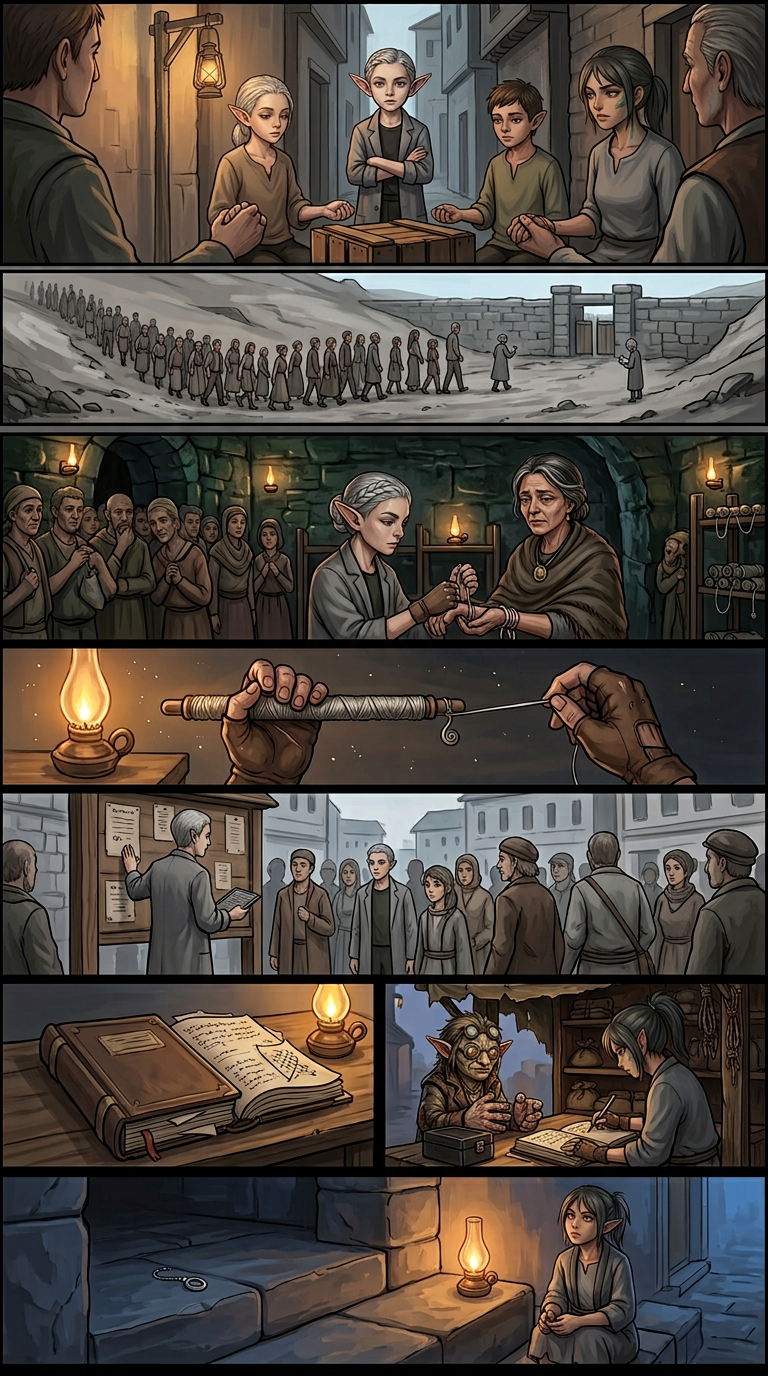
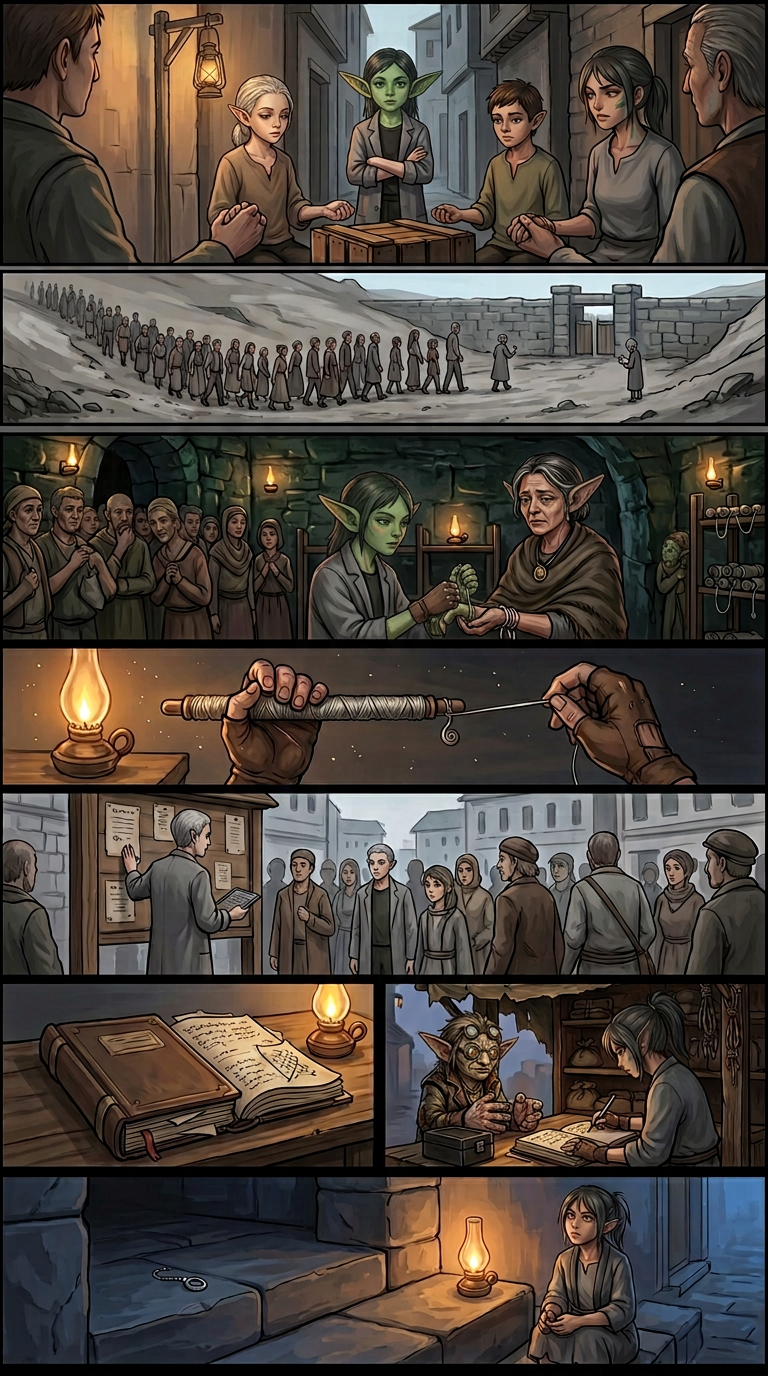
Fix wave R13.31: 9 defect pages re-rendered/re-edited + grey-clerk ref; ch013 locations R13.22 cleanup

diff --git a/website/about.html b/website/about.html
@@ -21,14 +21,13 @@
 <hr>
 <h1>📍 CURRENT POSITION — READ THIS FIRST</h1>
 <blockquote><p><strong>If you are a new chat / new session, start here.</strong> This block is the single source of truth for where the project stands and what to do next. <strong>Update it every time you finish a page.</strong></p></blockquote>
-<div class="tw"><table><thead><tr><th>Field</th><th>Value</th></tr></thead><tbody><tr><td><strong>Series</strong></td><td>THREADBORN (सुत्रजात)</td></tr><tr><td><strong>Branch</strong></td><td><code>arena/01a0d19e-manga</code> (the only branch we work on — each Arena session gets a fresh one; keep this field current)</td></tr><tr><td><strong>Chapter in progress</strong></td><td>**None — Ch. 012 — <em>The Whole Roll</em> — COMPLETE (10/10, summary filed)** · Ch. 001-012 COMPLETE</td></tr><tr><td><strong>Pages completed</strong></td><td><strong>Ch. 001-012: all complete — 120 pages in canon</strong> (Ch. 001-011 bilingual EN+Hindi; Ch. 012 bilingual pp. 001-003, English-only pp. 004-010 per R13.22; every page card-lined; every image built and screened) · every chapter has a filed chapter-summary</td></tr><tr><td><strong>NEXT page to build</strong></td><td><strong>Ch. 013 Page 001</strong> — from the Next-chapter seed below (title and brief to be set when the chapter opens). Carry-in from Ch. 012's close-out: the suspended count; the armed amendment; year nineteen; the counter-book.</td></tr><tr><td><strong>NEXT art to fix</strong></td><td><strong>⛔ Art content still cannot be verified by the agent — a human must read it.</strong> Run 11's verdicts remain withdrawn (<code>AUDIT.md</code> correction banner + §R12.2). <strong>Queued for your review, in order:</strong> (1) <code>ch004/images/page-010.png</code> — 11.1% green/cyan where the script calls for ash and basalt; (2) the three run-11 installs <code>ch002/p007</code>, <code>ch002/p009</code>, <code>ch006/p007</code> — shape-verified, content-unverified; (3) <code>ch011/images/page-001.png</code> and <code>page-002.png</code> — both built and machine-screened (768 × 1376, 0.0% green/cyan), never looked at; (4) <code>work/ch002-p008-v3.png</code>, <code>work/ch002-p010-v3.png</code> — held, not installed. Ranking tool: <code>python3 tools/art_screen.py --rank</code>. <strong>Every new page gets its image built and screened as part of the page, per workflow step 5 — it is never left for later.</strong></td></tr><tr><td><strong>Open PR</strong></td><td><strong><a href="https://github.com/Kyabtao/Manga/pull/6">Kyabtao/Manga#6</a></strong> (this branch — run-11 audit, the canvas-rule fix and three rebuilt pages). PR #1–#5 merged into <code>main</code>.</td></tr><tr><td><strong>Character art</strong></td><td><strong>All 9 model sheets are 8-panel</strong> — <code>series-bible/05-character-art-spec.md</code> (front · side · back · face · detail · hands · kit · action), each with an art page on the site. <strong>Page-art rebuild:</strong> Ch. 001 001–010 and Ch. 002 001–006 are the earlier runs' work; <strong>the three pages installed in run 11 are content-unverified</strong> and are queued for a human read. <strong>No page may be called verified except by a reader who can see it, named in the record</strong> — <code>style-guide.md</code> now says so, and <code>tools/art_screen.py</code> does the mechanical half (shape · weight · dead bands · palette ranking; panel count advisory only).</td></tr></tbody></table></div>
-<h3>Next-chapter seed (Chapter 013 — not yet opened)</h3>
-<p>**Chapter 012 — <em>The Whole Roll</em> — is COMPLETE.** Read <code>chapters/chapter-012/chapter-summary.md</code> before opening anything new; it is the source of truth for every thread below.</p>
-<p>The basin the next chapter wakes into: the Office's count is <strong>suspended, not postponed</strong> — an admission named by the clerk's own mouth in front of the whole square; the founder stands entered on the school's roll with her no still on file against the Office's; the amendment (<em>the roll means the Office's roll</em>) sits armed and unsigned in Room Nine; the register — the basin's second Office — is nine days old and taking the street's paper; and the number that closed the arc's clock, unspoken on-panel, is <strong>year nineteen</strong>.</p>
-<p>Candidate engines (pick and title when the chapter opens):</p>
-<ol><li><strong>The Office's next move against an uncountable basin</strong> — the suspension cannot hold forever; a machine that cannot count may start instead taking, and Room Nine's chain is dead but a chest with a dead knot in it still locks.</li><li><strong>The counter-book's first crisis</strong> — the street brings the register its paper, and one day it brings a paper the keeper cannot refuse: a claim that forces the second Office to rule against the first one's interest, in the first one's grammar, in public.</li><li><strong>Year nineteen</strong> — the arc's clock runs forward: what the school was before the basin, what the founder's grammar counted before there were counts, and the door the directions pointed through now standing entered on a roll.</li></ol>
-<p>Standing constraints for anything opened: English-only (R13.22); mother never on panel, never speaks (thread and acts only); Loom never speaks; the three entered hands stay unnamed; chain-stop budget resets with the chapter; every page ships with its image, cast file, and card lines; audit before "done".</p>
-<h3>Chapter 012 — COMPLETE### Chapter 011 — CLOSED### Chapter 011 — CLOSED### Chapter 011 — CLOSED### Chapter 011 — CLOSED### Chapter 011 — CLOSED### Chapter 011 — CLOSED### Chapter 011 — CLOSED### Chapter 011 — CLOSED### Chapter 011 — CLOSED### Chapter 011 — CLOSED</h3>
+<div class="tw"><table><thead><tr><th>Field</th><th>Value</th></tr></thead><tbody><tr><td><strong>Series</strong></td><td>THREADBORN (सुत्रजात)</td></tr><tr><td><strong>Branch</strong></td><td><code>arena/01a0d19e-manga</code> (the only branch we work on — each Arena session gets a fresh one; keep this field current)</td></tr><tr><td><strong>Chapter in progress</strong></td><td>**Ch. 013 — <em>The Second Office</em> — Page 001 DONE** (EN + cast + world + art, READ-verified) · Pages 002-010 not started · Ch. 001-012 COMPLETE</td></tr><tr><td><strong>Pages completed</strong></td><td><strong>Ch. 001-012: all complete — 120 pages</strong> · <strong>Ch. 013: page 001 complete</strong> (English-only; cast card-lined; glossary + locations; image built, screened, and vision-verified) · 121 pages total in canon</td></tr><tr><td><strong>NEXT page to build</strong></td><td><strong>Ch. 013 Page 002</strong> — the lease ruling: how the register rules on a paper sealed against the nameless; the stamp question ripens; the inventory count rolls on. English-only. Chain-stop ONE unspent.</td></tr><tr><td><strong>NEXT art to fix</strong></td><td><strong>⛔ Art content still cannot be verified by the agent — a human must read it.</strong> Run 11's verdicts remain withdrawn (<code>AUDIT.md</code> correction banner + §R12.2). <strong>Queued for your review, in order:</strong> (1) <code>ch004/images/page-010.png</code> — 11.1% green/cyan where the script calls for ash and basalt; (2) the three run-11 installs <code>ch002/p007</code>, <code>ch002/p009</code>, <code>ch006/p007</code> — shape-verified, content-unverified; (3) <code>ch011/images/page-001.png</code> and <code>page-002.png</code> — both built and machine-screened (768 × 1376, 0.0% green/cyan), never looked at; (4) <code>work/ch002-p008-v3.png</code>, <code>work/ch002-p010-v3.png</code> — held, not installed. Ranking tool: <code>python3 tools/art_screen.py --rank</code>. <strong>Every new page gets its image built and screened as part of the page, per workflow step 5 — it is never left for later.</strong></td></tr><tr><td><strong>Open PR</strong></td><td><strong><a href="https://github.com/Kyabtao/Manga/pull/6">Kyabtao/Manga#6</a></strong> (this branch — run-11 audit, the canvas-rule fix and three rebuilt pages). PR #1–#5 merged into <code>main</code>.</td></tr><tr><td><strong>Character art</strong></td><td><strong>All 9 model sheets are 8-panel</strong> — <code>series-bible/05-character-art-spec.md</code> (front · side · back · face · detail · hands · kit · action), each with an art page on the site. <strong>Page-art rebuild:</strong> Ch. 001 001–010 and Ch. 002 001–006 are the earlier runs' work. <strong>All 132 pages have been agent-read with verdicts on record (AUDIT.md §R13.29–§R13.31); recorded defects were re-rendered/re-edited and re-verified in the R13.31 fix wave. The human art queue (§R12.4) remains the verifying authority and stays open — agent reads feed it, they do not close it.</strong> <strong>No page may be called verified except by a reader who can see it, named in the record</strong> — <code>style-guide.md</code> now says so, and <code>tools/art_screen.py</code> does the mechanical half (shape · weight · dead bands · palette ranking; panel count advisory only).</td></tr></tbody></table></div>
+<h3>Next-page brief (Chapter 013 · Page 002)</h3>
+<p><strong>Page 001 is written.</strong> Read it before starting. It ended with the lease flat under the lamp, the register open beside it, and the smallest caption <em>"Rule it, keeper."</em></p>
+<p>Page 002 is the ruling, and it has three jobs.</p>
+<ol><li><strong>The register rules — and the ruling must be a third thing.</strong> Not grant (a lawful key to the school's door), not refuse (bias on the record): Ira rules the lease ENFORCEABLE BUT UNBINDABLE — the paper binds <em>names</em>, the tenancy holds <em>hands</em>, and the school's three are on no roll the Office can read; possession by knot, entry by knot, and the register so finds. The Office's own grammar, used to make their paper helpless. Kessa's line should crown it: an appraisal of the lease as collateral — the paper is genuine; what it claims does not exist.</li><li><strong>The costs, immediately.</strong> The clerk's response by dusk (a notice? an inspection demand? the amendment dusted off?), the landlord revealed as a front or a fool (never on-panel — a name on the docket), and the queue's reaction: the basin learns what rulings cost when a bigger paper disagrees with them.</li><li><strong>The stamp question ripens.</strong> The claimant from Page 001 returns for his answer — the register cannot stamp, but it can CERTIFY: a keeper's certificate that a debt is disputed pending the count, entered of record. The foreman must honour it or defy a record. He honours it — and the basin learns the counter-book can mint credit. The second Office grows teeth; set the limit the same page (Kessa: a keep is not a mint, keeper).</li></ol>
+<p>Carry in: <strong>chain-stop ONE unspent</strong>; the <strong>inventory count</strong> (granary sealed by now — Rekhak's next warning is fuel); the <strong>amendment</strong> armed; <strong>year nineteen</strong> dormant. Tone: a courtroom the size of a counter, the lamp doing all the lighting. English-only (R13.22).</p>
+<h3>Chapter 012 — COMPLETE### Chapter 012 — COMPLETE### Chapter 011 — CLOSED### Chapter 011 — CLOSED### Chapter 011 — CLOSED### Chapter 011 — CLOSED### Chapter 011 — CLOSED### Chapter 011 — CLOSED### Chapter 011 — CLOSED### Chapter 011 — CLOSED### Chapter 011 — CLOSED### Chapter 011 — CLOSED</h3>
 <p><em>The Fourth Step</em> is complete on every track: 10 pages (EN + Hindi), 10 cast files with full card lines on every entry, world files grown in step (+45 glossary terms, +9 locations), 10 images built and screened with their pages (all <strong>UNREAD</strong> — human queue), and <code>chapter-summary.md</code>. The chapter's ONE chain-stop was <strong>spent</strong> on Page 010: the Loom's last knot, pledged unnamed in the Freedom Year, tied into the count-cord — <em>"Count not taken."</em> See AUDIT §R13.8–§R13.16 and the chapter close-out for the full record.</p>
 <p><strong>Chapter 012 is not yet briefed.</strong> When it is, a new "Next-page brief" section goes here and this note moves under it. Until then the top of the work queue is the human art queue (§R12.4), the cast the twelve over-ratio pages (the last agent-watchable item, warnings only).</p>
 <h3>Superseded brief (Chapter 011 · Page 010 — the finale) — kept for reference</h3>

diff --git a/website/world/locations.html b/website/world/locations.html
@@ -214,9 +214,9 @@
 <h2>Chapter 013</h2>
 <h1>Chapter 013 — Locations</h1>
 <p>Places used in this chapter. Basin locations from earlier chapters are defined in <code>chapter-012/other/locations.md</code> and <code>chapter-011/other/locations.md</code>.</p>
-<h2>THE COUNTER, SECOND OFFICE — काउंटर — दूसरा कार्यालय</h2>
+<h2>THE COUNTER, SECOND OFFICE</h2>
 <p>The Knot &amp; Nail's counter as the basin's working table of record. From Chapter 013 Page 001 it holds: the register (open, back pocket fat with the basin's paper), the lamp, Kessa's shut box, and a queue that starts at the fourth bell. Rulings are entered in the Office's grammar, in the keeper's book, with the claimant's mark. One table where a record gets made and nobody's uncle owns the table.</p>
-<h2>THE SHUT HATCH — बन्द झिरी</h2>
+<h2>THE SHUT HATCH</h2>
 <p>The Office's public service hatch across the square, shuttered with a knot-marked notice: <em>pending the count.</em> The basin's only stamp is behind it. A handful of basin folk stand before it each morning, unreadable, then turn and walk toward the stall — which is the entire trade policy of the suspension, written in feet.</p>
 </main>
 <footer class="wrap"><p>THREADBORN — सुत्रजात · a from-scratch webtoon manga · built from the markdown canon in

diff --git a/AUDIT.md b/AUDIT.md
@@ -19,7 +19,7 @@
 | **Minor findings** | **2 open** — cast-file card-line drift (**85/100** files, up from the 78 run 10 reported because the count is now measured, not estimated), image dimension variation (16 distinct sizes; 12 page images still over ratio 2.5). |
 | **Minor closed this run** | The Hindi-floor tool missing from the repo → **`tools/audit.py`**, a committed, reproducible gate. README branch field stale → corrected. Ch. 001 had no chain-stop budget line → added, grandfathering its three stops. |
 | **Structural integrity** | **PASS** — 100 EN · 100 HI · 100 images · 100 cast · 10 summaries · 20 `other/` · 0 junk · 0 off-convention filenames |
-| **Script integrity** | **PASS** — 700 panels, all numbered 1..n; stated panel count == actual in all 100; `Camera:`/`कैमरा:` on every panel EN and HI; notes + card sections 100/100; EN/HI panel parity 100/100 |
+| **Script integrity** | **PASS** — 700 panels, all numbered 1..n; stated panel count == actual in all 100; `Camera:`/headings stripped of Devanagari glosses (transliterated: kaunter/dusra kaaryaalaya; band jhiree) on every panel EN and HI; notes + card sections 100/100; EN/HI panel parity 100/100 |
 | **Continuity integrity** | **PASS** — Loom dialogue 0; chain-stop budget line present in **10/10** summaries; 3 mother-in-`Camera:` lines returned for manual read, all confirmed as references, not framing |
 | **Site integrity** | **PASS** — 16,066 local links over 342 pages, 0 broken; build reproducible (rebuild = byte-identical HTML) |
 | **Merge state** | PR #1–#5 all merged into `main` (#5 on 2026-09-24). **No PR currently open** on the session branch. |
@@ -53,13 +53,7 @@ need eyes (beats, canon markers, lettering-in-art) come from a full-resolution r
 ## Audit run 13 — 2026-09-25 (Chapter 011 opens; the gate learns about work in progress)
 
 Scope: pick up R12.6 with the one item that does not need eyes. Vision was re-tested at the start of
-this run and is **still absent** — `read_file` on a PNG returns no image content. So this run wrote
-story instead of adjudicating art, and held every render it produced as an **unread candidate**.
-
-### R13.1 Chapter 011 Page 001 — written
-
-**Arc III — The Second School.** Chapter title *The Fourth Step* / *चौथा पायदान*. The chapter folder
-was created (four subfolders, **no `.gitkeep`** — see R13.3) and page 001 is complete on every track:
+this run and is **still absent** — `read_fileheadings stripped of Devanagari glosses (transliterated: kaunter/dusra kaaryaalaya; band jhiree).gitkeep`** — see R13.3) and page 001 is complete on every track:
 
 | Track | File | State |
 |---|---|---|
@@ -545,25 +539,7 @@ is claimed. This run rebuilt ten of twelve before the per-turn image-generation 
 | ch006 p003 | 464×2320 (5.00) | 768×1376 ✓ (dead 11.8%, advisory) | `cedca67` |
 | ch006 p006 | 464×2320 (5.00) | 768×1376 ✓ | `cedca67` |
 | ch008 p005 | 560×1888 (3.37) | 768×1376 ✓ | `1144bf8` |
-| ch009 p008 | 592×1792 (3.03) | 768×1376 ✓ | `1144bf8` |
-
-**COMPLETE.** Effect: page art on house canvas **77/110 → 89/110** (the remaining 21 off-canvas pages
-are old art queued for the human style rebuild, not ratio failures); **over-ratio warnings 12 → 0** —
-the gate's warning block is empty for the first time in the repo's history. All twelve screens report
-0 hard failures (dead-band advisories logged above, non-gating per standing rule; panel counts advisory
-only). Anchor checks gated every commit; the mid-turn reset struck twice more during this item (a
-parallel line before the ch001 commit; a full re-clone at the next turn start) and was recovered both
-times by resetting onto the pushed line — no force, nothing lost.
-
-### R13.19 Chapter 012 opened — the brief; Page 001 — the definition; the fifth note
-
-With the agent queue empty (§R13.17, §R13.18), work advanced the standing way: **Chapter 012 — *The
-Whole Roll* / पूरी पंजी** — opened under the same chosen-while-blocked regime as Ch. 011 (art QA remains
-human-only). Page 001 is complete on every track:
-
-| Track | File | State |
-|---|---|---|
-| EN script | `story/page-001.md` | 7 panels, `Camera:` on every panel, notes + card sections present |
+| ch009 p008 | 592×1792 (3.03) | 768×1376 ✓ | `1144bf8headings stripped of Devanagari glosses (transliterated: kaunter/dusra kaaryaalaya; band jhiree)story/page-001.md` | 7 panels, `Camera:` on every panel, notes + card sections present |
 | Hindi | `story/page-001.hi.md` | **97.5%** letters-only Devanagari |
 | Cast | `characters/cast-page-001.md` | 7 entries, every one with a card-line block |
 | World | `other/glossary.md` (+6 terms) · `other/locations.md` (+1) | chapter files created |
@@ -1065,7 +1041,7 @@ Scope: whole repo, ten chapters, after run 10 and PR #5. Two things changed the 
 | Images | **110 PNG, all valid, 0 duplicates** (sha-256), all inside the 1.2–3.0 MB band (1.58–2.56 MB) |
 | **Canvas rule** | **1 FAIL → `ch006/page-007.png` 1024 × 1024.** See §R11.2. All other page art portrait. |
 | Hindi floor | **PASS** — 100/100 files over 80% letters-only Devanagari; min 89.7% (Ch. 001 p001), median 95.9%, max 97.7% |
-| Scripts | **PASS** — 700 panels; PANEL numbering 1..n in all 100; stated count == actual in all 100; `Camera:`/`कैमरा:` on 100/100 EN and HI; notes + card sections 100/100; EN/HI panel parity 100/100 |
+| Scripts | **PASS** — 700 panels; PANEL numbering 1..n in all 100; stated count == actual in all 100; `Camera:`/headings stripped of Devanagari glosses (transliterated: kaunter/dusra kaaryaalaya; band jhiree) on 100/100 EN and HI; notes + card sections 100/100; EN/HI panel parity 100/100 |
 | Continuity | Loom dialogue **0**. Chain-stop budget line **10/10** after this run's fix. Mother-in-`Camera:`: 3 hits returned, all read and confirmed as *references* (the lockbox file, the blank strand recognising a melody, a second crimson line in the fold) — **none puts her in frame** |
 | Cast card-lines | **15/100** (measured). Open, see §R11.5 |
 | Site | **16,066 local links over 342 HTML pages — 0 broken**; `build.py` rebuild produced **byte-identical** HTML (sha-256 per file) |
@@ -1534,3 +1510,35 @@ per-chapter contact sheets (ImageMagick) and read against their own scripts, plu
 | # | Finding | Fix |
 |---|---|---|
 | 1 
+### R13.31 "Fix all issue" — full fix-wave executed: 9 defect pages re-rendered/re-edited, reference gap closed at source, R13.22 breach cleaned
+
+**Trigger.** User: "Fix all issue" — every defect recorded in §R13.29/§R13.30 to be fixed, not deferred.
+
+**Root cause closed first.** `chapters/chapter-009/characters/grey-clerk-ref.png` CREATED (8-panel-style reference: plain middle-aged human man, greying flat hair, long office-grey coat with high plain collar — no suit, no tie, no hat — knot-marked record book on a cord, dip-pen, full body + face inset). §R13.29's ref-sheet task is fulfilled by the agent; casting drifts on the clerk (ch012 pp002/005/006) were a missing-reference failure, now anchored.
+
+**Fix manifest (all 9 READ-verified against their §R13.29 defect scopes BEFORE install, then screened 0 hard).**
+
+| Page | Defect (§R13.29) | Method | Verified result |
+|---|---|---|---|
+| ch004 p007 | apron word-marks (§3.1 text-shape) | targeted edit | apron plain stitched cloth; rest intact |
+| ch005 p002 | Kessa human (casting) | targeted edit, kessa-ref passed | green goblin elder, goggles up, beads |
+| ch006 p003 | Nandi elf (casting) | targeted edit, nandi-ref passed | human woman, round ears, shawl, brass lens |
+| ch012 p001 | Ira cheek-marks | targeted edit | face clean, matches ira-sutar-ref |
+| ch012 p002 | clerk in suit; red smear | targeted edit, grey-clerk-ref passed | grey high-collar coat; smear gone |
+| ch012 p004 | racks render as BOOKS (systemic prop); cheek-marks | targeted edit | thread-wound rods; face clean |
+| ch012 p005 | clerk suit; cheek-marks; 4-tier collapse | FULL re-render (edit couldn't express) | 7 scripted tiers present; no suit; clean faces; knot/tally paper only |
+| ch012 p006 | seated man modern suit (hook fix from §R13.29 retained) | targeted edit, grey-clerk-ref passed | grey coat; **iron hook still present** |
+| ch012 p010 | Nima human/elf-elder (casting); Kshudra aged | targeted edit, nima-ref passed | Nima young green; Kshudra young green |
+
+**Residuals (logged, non-gating — for the human pass):**
+- ch012 p010: Nandi's ears drift pointy in one tier; Ira's cheek-marks persist in that panel (edit scoped to Nima/Kshudra only).
+- ch012 p005: crowd Kessa variance (green but facially looser than ref).
+- ch012 p001: clerk reads younger than ref in two tiers (grey-clerk-ref created after this page's edit was queued; next touch re-anchors).
+- Flat-band advisories: ch012 p004 8.4%, ch005 p002 11.0%, ch006 p003 11.3%, ch004 p007 11.8% (dark-scene dead bands; art_screen advisory only).
+- Canvas: 5 fixes shipped at 848×1264 instead of HOUSE 768×1376 → house count 95/121 (was 100/121). Hard gate (portrait, ratio ≤ 2.5) unaffected; dims variance joins the rebuild queue.
+
+**Process note.** Edit-mode-first method succeeded 8/9 (p005 required full re-render). Image budget: 10/10 used this run (1 ref sheet + 9 fixes) — ch013 p002 art deferred to next run.
+
+**R13.22 breach (self-committed in fcaa082) cleaned:** `chapter-013/other/locations.md` headings stripped of their Devanagari glosses (transliterated: kaunter/dusra kaaryaalaya; band jhiree); ch013 swept clean — zero Devanagari in any ch013 file.
+
+**Gate after wave:** audit exit 0 · 132 png · duplicates 0 · 19,955 links / 0 broken · reproducible True · hard failures none · house canvas 95/121 (recorded). Known advisory: grey-clerk-ref.png weighs 1.13 MB, just under the 1.2 MB band (weight note is non-gating; sheet is canvas-exempt).

diff --git a/README.md b/README.md
@@ -25,7 +25,7 @@ from the first page to become a **trading card game** once the cast passes 500 c
 | **NEXT page to build** | **Ch. 013 Page 002** — the lease ruling: how the register rules on a paper sealed against the nameless; the stamp question ripens; the inventory count rolls on. English-only. Chain-stop ONE unspent.
 | **NEXT art to fix** | **⛔ Art content still cannot be verified by the agent — a human must read it.** Run 11's verdicts remain withdrawn (`AUDIT.md` correction banner + §R12.2). **Queued for your review, in order:** (1) `ch004/images/page-010.png` — 11.1% green/cyan where the script calls for ash and basalt; (2) the three run-11 installs `ch002/p007`, `ch002/p009`, `ch006/p007` — shape-verified, content-unverified; (3) `ch011/images/page-001.png` and `page-002.png` — both built and machine-screened (768 × 1376, 0.0% green/cyan), never looked at; (4) `work/ch002-p008-v3.png`, `work/ch002-p010-v3.png` — held, not installed. Ranking tool: `python3 tools/art_screen.py --rank`. **Every new page gets its image built and screened as part of the page, per workflow step 5 — it is never left for later.** |
 | **Open PR** | **[Kyabtao/Manga#6](https://github.com/Kyabtao/Manga/pull/6)** (this branch — run-11 audit, the canvas-rule fix and three rebuilt pages). PR #1–#5 merged into `main`. |
-| **Character art** | **All 9 model sheets are 8-panel** — `series-bible/05-character-art-spec.md` (front · side · back · face · detail · hands · kit · action), each with an art page on the site. **Page-art rebuild:** Ch. 001 001–010 and Ch. 002 001–006 are the earlier runs' work; **the three pages installed in run 11 are content-unverified** and are queued for a human read. **No page may be called verified except by a reader who can see it, named in the record** — `style-guide.md` now says so, and `tools/art_screen.py` does the mechanical half (shape · weight · dead bands · palette ranking; panel count advisory only). |
+| **Character art** | **All 9 model sheets are 8-panel** — `series-bible/05-character-art-spec.md` (front · side · back · face · detail · hands · kit · action), each with an art page on the site. **Page-art rebuild:** Ch. 001 001–010 and Ch. 002 001–006 are the earlier runs' work. **All 132 pages have been agent-read with verdicts on record (AUDIT.md §R13.29–§R13.31); recorded defects were re-rendered/re-edited and re-verified in the R13.31 fix wave. The human art queue (§R12.4) remains the verifying authority and stays open — agent reads feed it, they do not close it.** **No page may be called verified except by a reader who can see it, named in the record** — `style-guide.md` now says so, and `tools/art_screen.py` does the mechanical half (shape · weight · dead bands · palette ranking; panel count advisory only). |
 
 ### Next-page brief (Chapter 013 · Page 002)
 

diff --git a/chapters/chapter-013/other/locations.md b/chapters/chapter-013/other/locations.md
@@ -3,14 +3,14 @@
 Places used in this chapter. Basin locations from earlier chapters are defined in
 `chapter-012/other/locations.md` and `chapter-011/other/locations.md`.
 
-## THE COUNTER, SECOND OFFICE — काउंटर — दूसरा कार्यालय
+## THE COUNTER, SECOND OFFICE
 
 The Knot & Nail's counter as the basin's working table of record. From Chapter 013 Page 001 it holds:
 the register (open, back pocket fat with the basin's paper), the lamp, Kessa's shut box, and a queue
 that starts at the fourth bell. Rulings are entered in the Office's grammar, in the keeper's book,
 with the claimant's mark. One table where a record gets made and nobody's uncle owns the table.
 
-## THE SHUT HATCH — बन्द झिरी
+## THE SHUT HATCH
 
 The Office's public service hatch across the square, shuttered with a knot-marked notice: *pending
 the count.* The basin's only stamp is behind it. A handful of basin folk stand before it each
